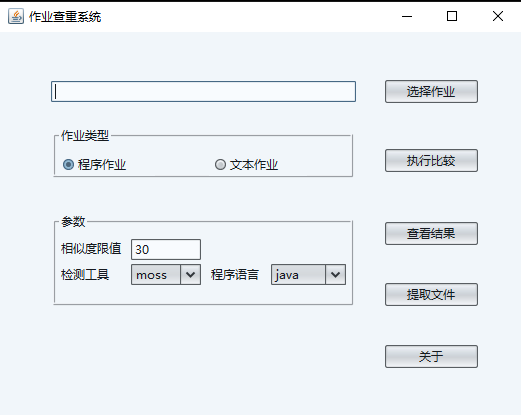
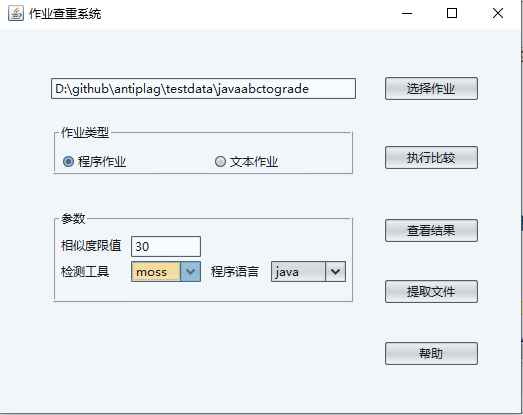
update readme && help

diff --git a/README.md b/README.md
@@ -7,6 +7,7 @@
 ## 安装
 直接下载或clone项目源代码版，或下载软件的发布版[releases](https://github.com/fanghon/antiplag/releases)。
 源代码版可以直接导入eclipse，主入口类是gui.plag.edu下的PlagGUI。
+系统在window10，jdk11 64位下开发、运行。
 
 ## 使用
 在发布版子目录下，双击run.bat批处理程序，就能启动程序。使用说明参见发布版子目录下的软件使用文档。程序主界面如下：
